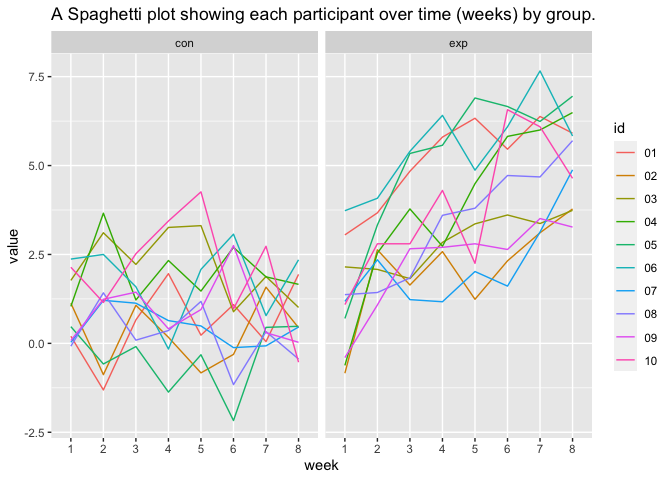
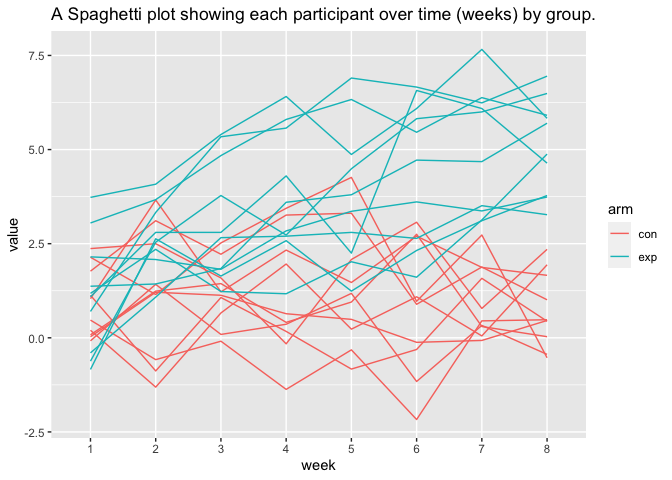
updating the comments

diff --git a/p8105_hw5_ajp2257.md b/p8105_hw5_ajp2257.md
@@ -147,9 +147,12 @@ Plotting time\!
 
 ``` r
 # looking at spagetti plot over time (in weeks) by the two different arms 
-ggplot(data = participants_df, aes(x = week, y = value, group = id)) + 
-  geom_line(aes(color=id)) + # coloring the participants id 
-  facet_grid(. ~ arm) +      # splitting the graph by arm
+participants_df %>%
+  mutate(
+    uniq = str_c(arm , id, sep="_") #making a unique identifier for each person 
+  ) %>%
+ggplot( aes(x = week, y = value, group = uniq)) + 
+  geom_line(aes(color=arm)) + # coloring the participants by arms
   labs(
     title = "A Spaghetti plot showing each participant over time (weeks) by group."
   )
@@ -176,28 +179,25 @@ to explore power in a simple linear regression.
 
 First set the following design elements:
 
-  - Fix \(n=30\)
-  - Fix \(\sigma=5\)
+  - Fix n=30
+  - Fix sigma=5
 
-Set \(\mu=0\). Generate 5000 datasets from the model
-\[x \sim \textrm{Normal}[\mu, \sigma]\] For each dataset, save
-\(\hat{\mu}\) and the p-value arising from a test of \(H:\mu =0\) using
-\(\alpha=0.05\). Hint: to obtain the estimate and p-value, use
-broom::tidy to clean the output of t.test.
+Set mu=0. Generate 5000 datasets from the model x \~ Normal\[mu,
+sigma\]. For each dataset, save mu hat and the p-value arising from a
+test of H:mu =0 using alpha=0.05. Hint: to obtain the estimate and
+p-value, use broom::tidy to clean the output of t.test.
 
-Repeat the above for \(\mu=\{1,2,3,4,5,6\}\), and complete the
-following:
+Repeat the above for mu={1,2,3,4,5,6}, and complete the following:
 
   - Make a plot showing the proportion of times the null was rejected
-    (the power of the test) on the y axis and the true value of \(\mu\)
-    on the x axis. Describe the association between effect size and
-    power.
-  - Make a plot showing the average estimate of \(\hat{\mu}\) on the y
-    axis and the true value of μ on the x axis. Make a second plot (or
-    overlay on the first) the average estimate of \(\hat{\mu}\)  on the
-    y axis and the true value of \(\mu\) on the x axis. Is the sample
-    average of \(\hat{\mu}\) across tests for which the null is rejected
-    approximately equal to the true value of \(\mu\)? Why or why not?
+    (the power of the test) on the y axis and the true value of mu on
+    the x axis. Describe the association between effect size and power.
+  - Make a plot showing the average estimate of hat{mu} on the y axis
+    and the true value of μ on the x axis. Make a second plot (or
+    overlay on the first) the average estimate of hat{mu}  on the y axis
+    and the true value of mu on the x axis. Is the sample average of
+    hat{mu} across tests for which the null is rejected approximately
+    equal to the true value of mu? Why or why not?
 
 The is setting up the data generation
 
@@ -235,8 +235,8 @@ sim_results =
 ```
 
 Make a plot showing the proportion of times the null was rejected (the
-power of the test) on the y axis and the true value of \(\mu\) on the x
-axis. Describe the association between effect size and power.
+power of the test) on the y axis and the true value of mu on the x axis.
+Describe the association between effect size and power.
 
 ``` r
 # plot showing the proportion of times the null was rejected (the power of the test)
@@ -260,17 +260,18 @@ sim_results %>%
 ```
 
 ![](p8105_hw5_ajp2257_files/figure-gfm/unnamed-chunk-10-1.png)<!-- -->
-We see here that when \(\mu=0\) we get the lowest amount of times the
-null was rejected. That makes sense because we are running a hypothesis
-test seeing if the sample is close to having a population mu of 0. This
-is our alpha value or a false positive rate. When we increase the mu
-value then the number of times the null was rejected increases. When mu
-equal 5 and 6 then we are almost always rejecting the null hypothesis.
 
-Make a plot showing the average estimate of \(\hat{\mu}\) on the y axis
-and the true value of μ on the x axis. Make a second plot (or overlay on
-the first) the average estimate of \(\hat{\mu}\)  on the y axis and the
-true value of \(\mu\) on the x axis.
+We see here that when mu=0 we get the lowest amount of times the null
+was rejected. That makes sense because we are running a hypothesis test
+seeing if the sample is close to having a population mu of 0. This is
+our alpha value or a false positive rate. When we increase the mu value
+then the number of times the null was rejected increases. When mu equal
+5 and 6 then we are almost always rejecting the null hypothesis.
+
+Make a plot showing the average estimate of hat{mu} on the y axis and
+the true value of μ on the x axis. Make a second plot (or overlay on the
+first) the average estimate of hat{mu}  on the y axis and the true value
+of mu on the x axis.
 
 ``` r
 # average estimates against the true mu value graph 
